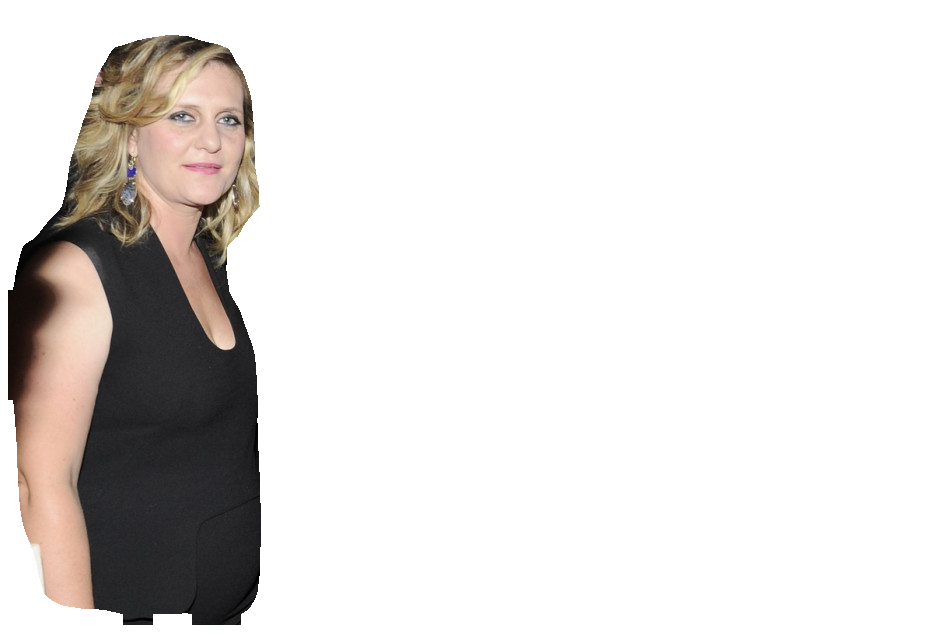
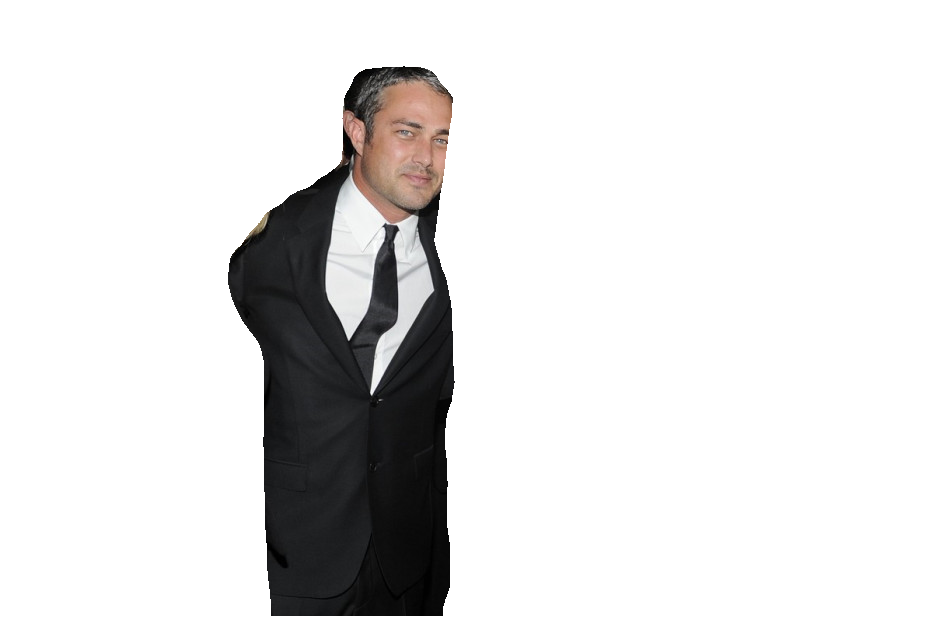
modified:   demo.py 	modified:   mask.png 	modified:   plot.png

diff --git a/demo.py b/demo.py
@@ -77,7 +77,7 @@ print(id_person)
 # Visualize results
 r = results[0]
 #idx = r['class_ids'].tolist().index(1)
-idx = 0
+idx = 1
 print(idx)
 #print(r['rois'].shape)
 #print(r['masks'].shape)
